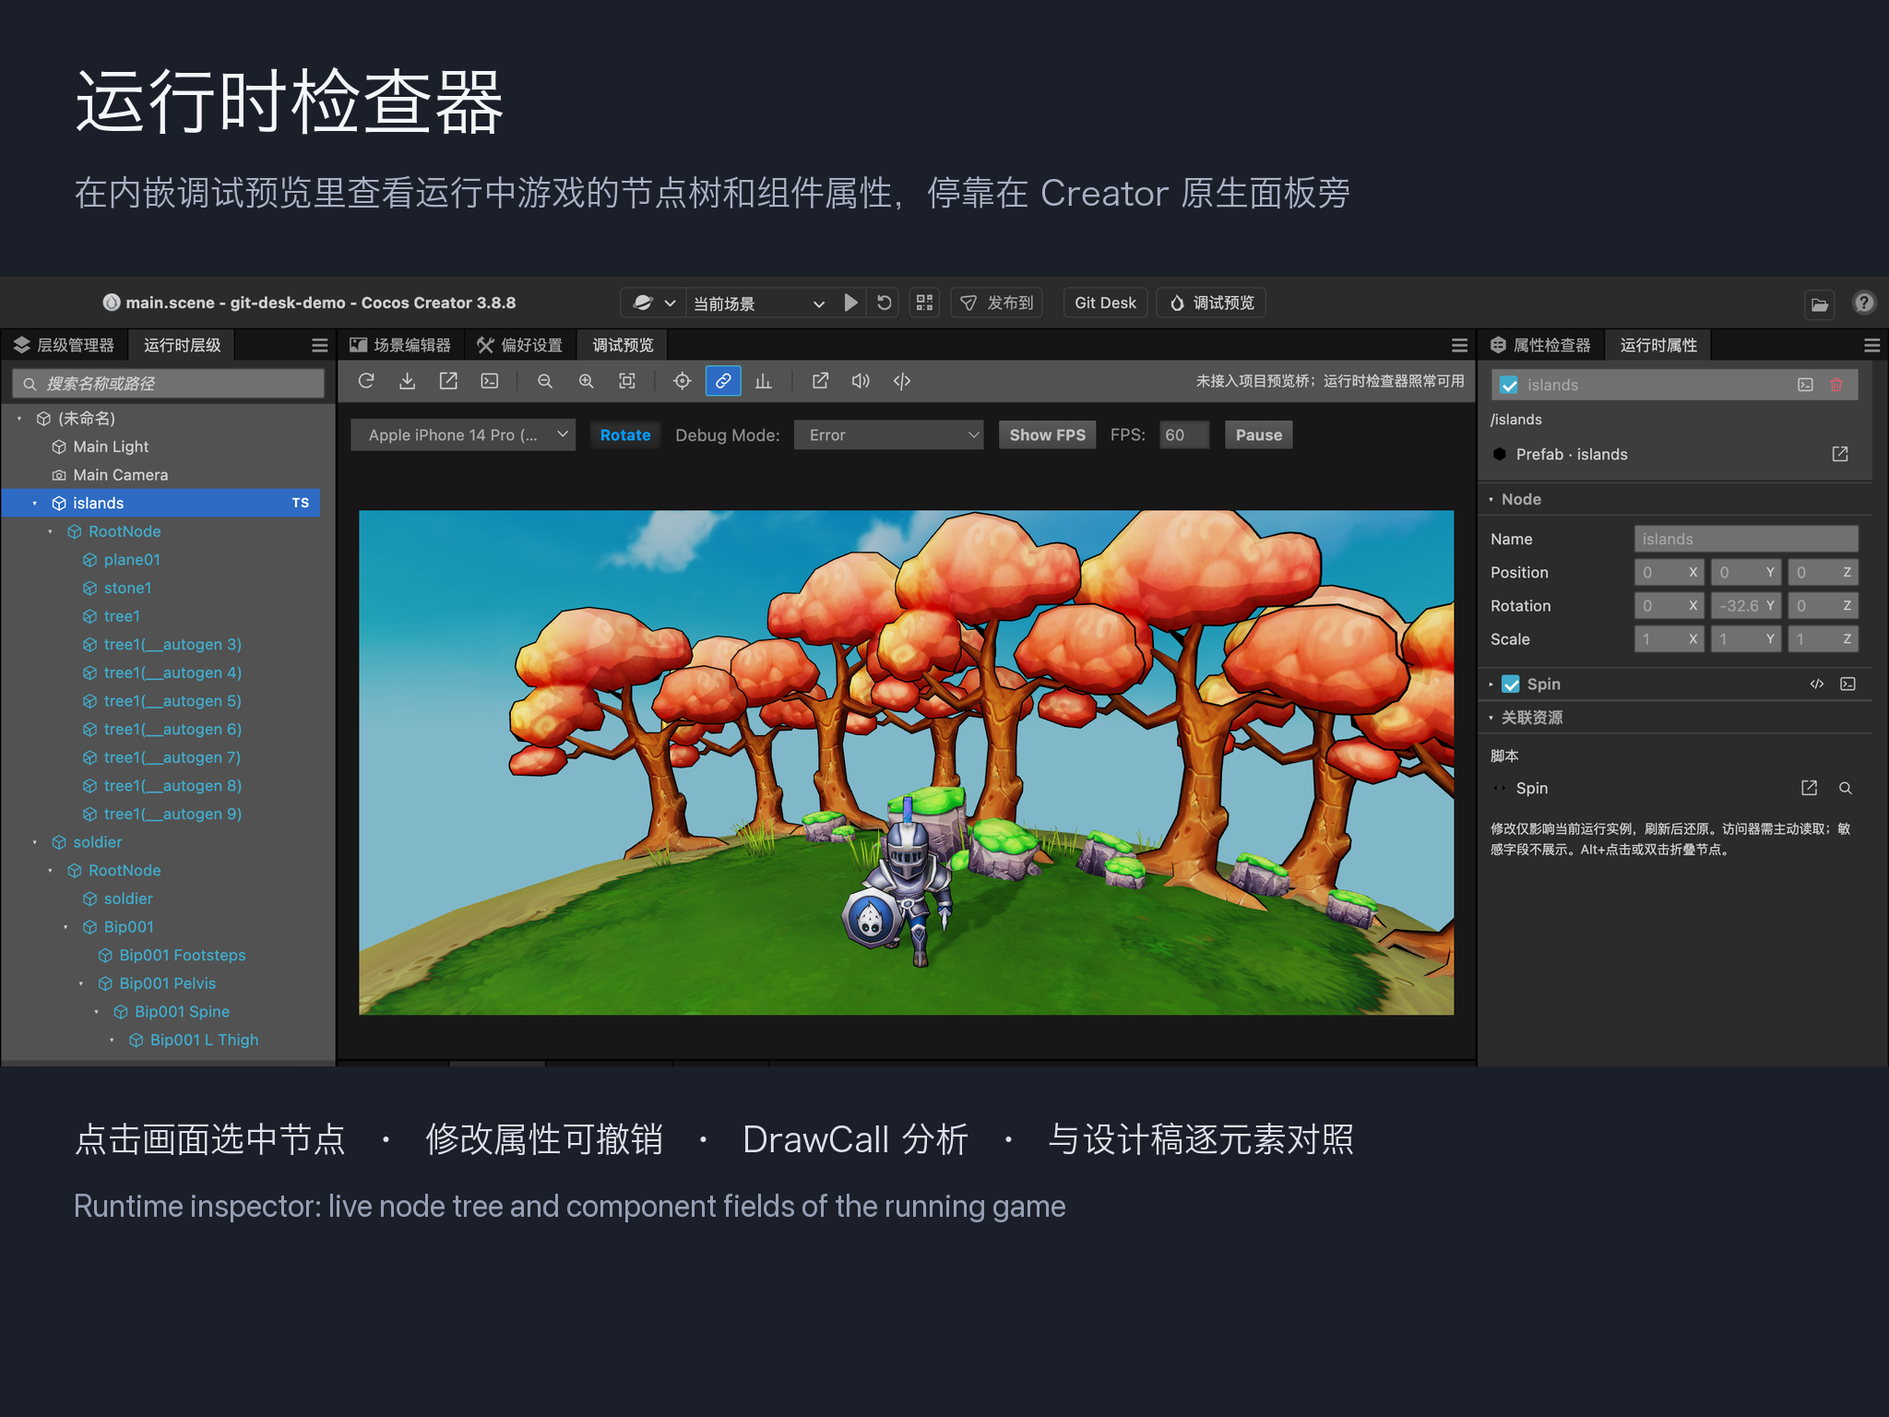
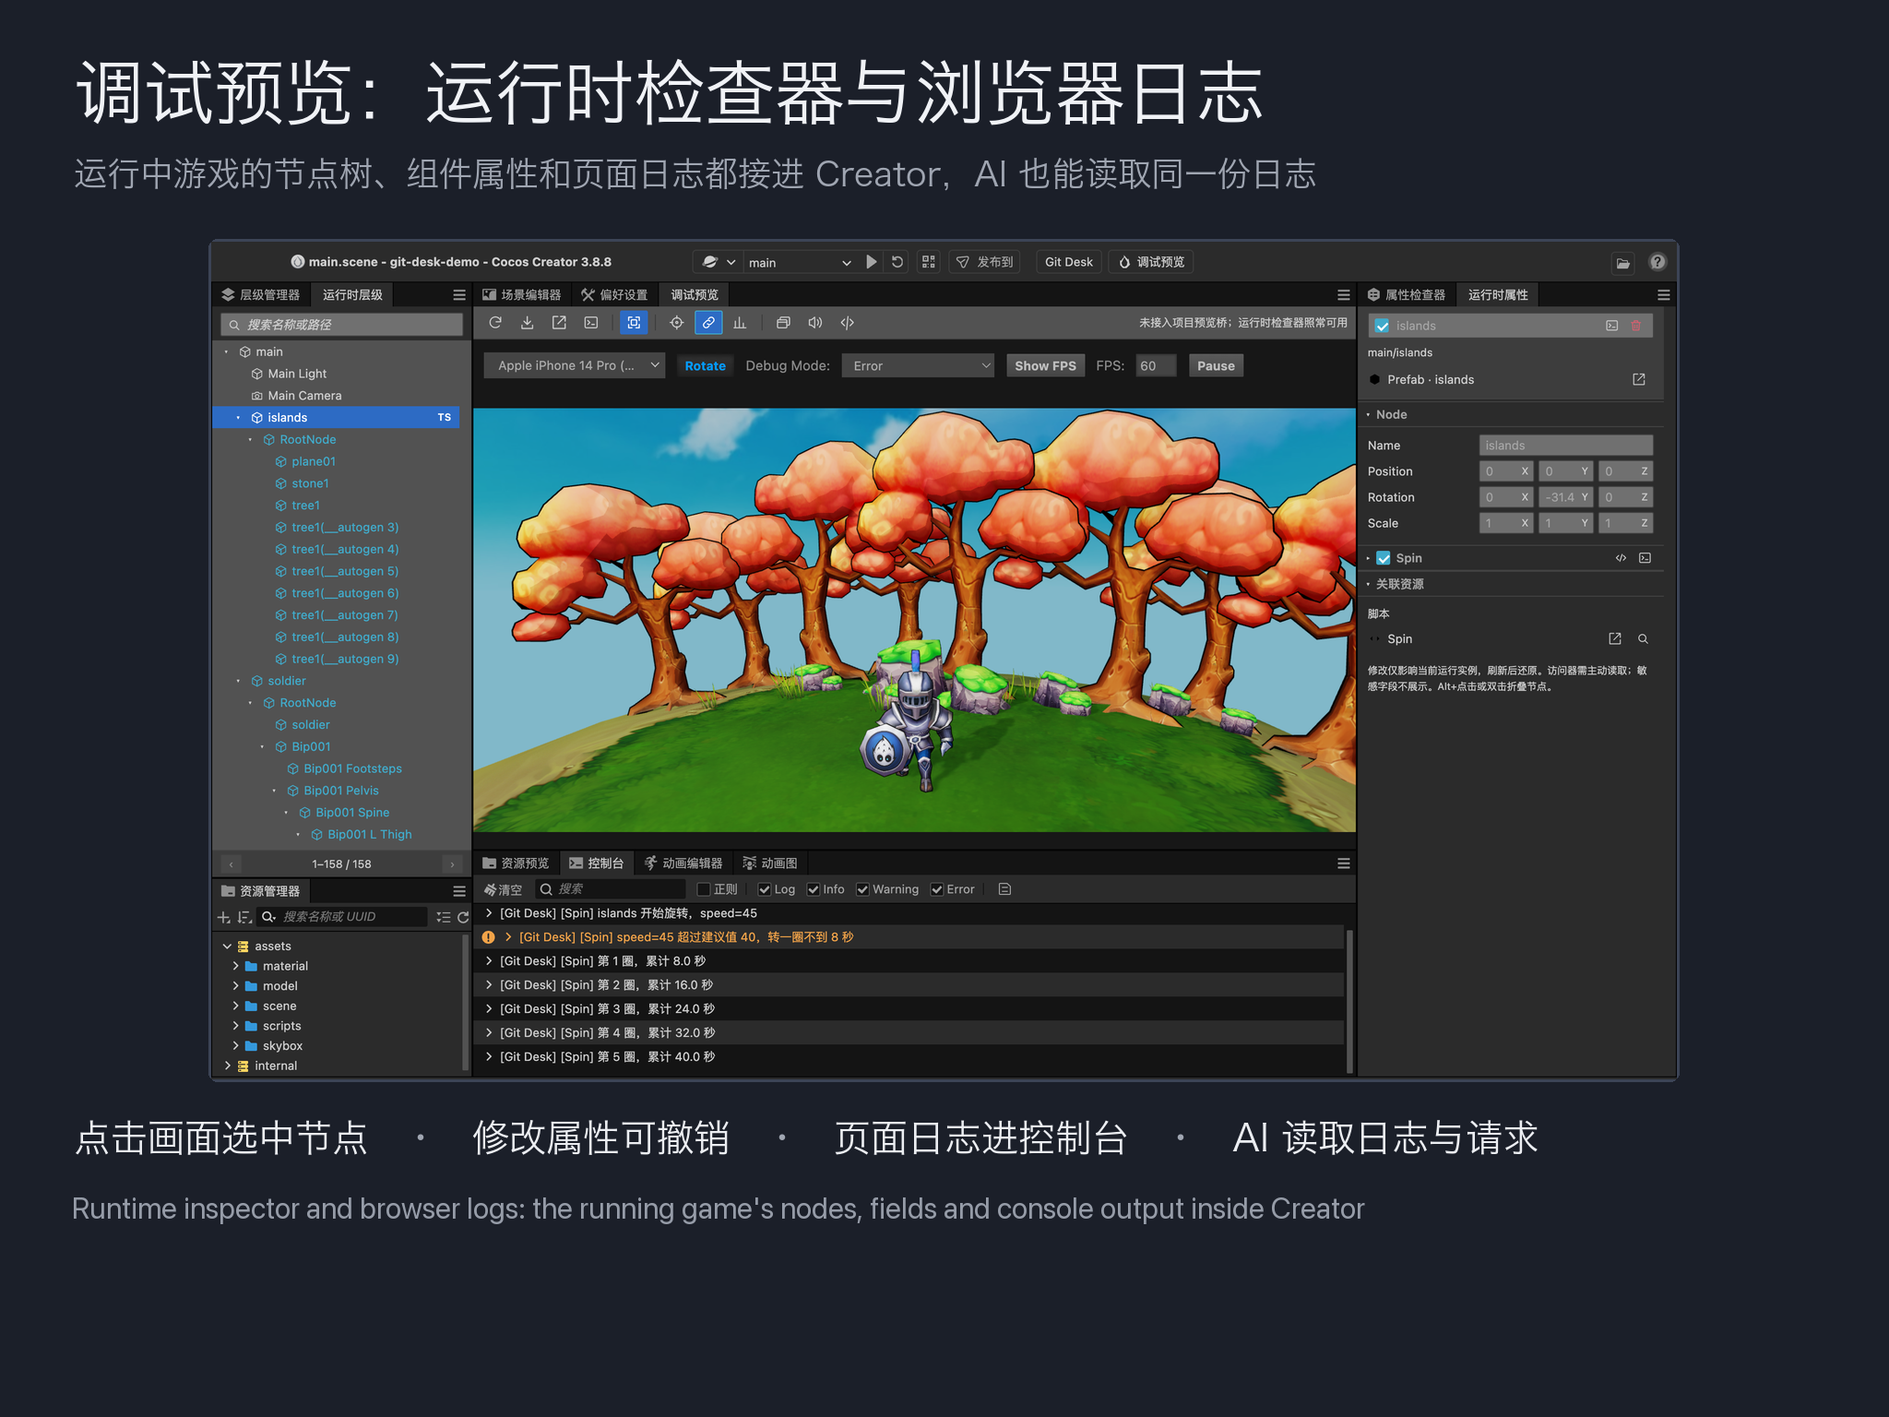
Release 0.2.3
- creator_prefab_diff compares components mounted on prefab instances
  (mountedComponents); instance roots are named after their asset and
  script components are labelled without the file extension
- Debug preview "fit to panel" uses the selected device size, so it no
  longer zooms in further on every page load
- The runtime panels are docked again after the debug preview reopens
  following an extension reload
- New store screenshot of an AI client editing a scene through MCP; the
  first screenshot now shows the game's console output

diff --git a/src/prefab-diff.ts b/src/prefab-diff.ts
@@ -10,7 +10,7 @@ export interface PropertyChange { node: string; component?: string; property: st
 export interface AssetUse { uuid: string; label?: string; before: number; after: number; }
 export interface PrefabDiff { left: { nodes: number; components: number }; right: { nodes: number; components: number }; nodes: NodeChange[]; components: ComponentChange[]; properties: PropertyChange[]; assets: AssetUse[]; truncated: boolean; summary: string; }
 
-interface NodeEntry { index: number; name: string; parent: string | null; stableId: string; components: { index: number; type: string; key: string }[]; }
+interface NodeEntry { index: number; name: string; parent: string | null; stableId: string; components: { index: number; type: string; key: string }[]; mounted: { index: number; type: string; key: string; node: string }[]; }
 interface Model { objects: SerializedObject[]; nodes: Map<string, NodeEntry>; pathOf: Map<number, string>; componentOf: Map<number, { node: string; key: string }>; uuids: Map<string, number>; types: Set<string>; }
 
 const NODE_TYPES = new Set(['cc.Node', 'cc.Scene']);
@@ -50,7 +50,7 @@ export function collectReferences(sides: SerializedObject[][]): { uuids: string[
     return { uuids: [...uuids].slice(0, UUID_LIMIT), types: [...types].slice(0, UUID_LIMIT) };
 }
 
-export function buildModel(objects: SerializedObject[]): Model {
+export function buildModel(objects: SerializedObject[], options: PrefabDiffOptions = {}): Model {
     const model: Model = { objects, nodes: new Map(), pathOf: new Map(), componentOf: new Map(), uuids: new Map(), types: new Set() };
     const stableId = (object: SerializedObject): string => {
         if (typeof object._id === 'string' && object._id) return 'id:' + object._id;
@@ -60,7 +60,10 @@ export function buildModel(objects: SerializedObject[]): Model {
     const visit = (index: number, parentPath: string | null, siblings: Map<string, number>) => {
         const object = objects[index];
         if (!object || model.pathOf.has(index)) return;
-        const base = String(object._name ?? ''), count = (siblings.get(base) ?? 0) + 1;
+        // A prefab instance root keeps its name in the prefab asset, not in this file: name it after the asset.
+        const prefabInfo = isRef(object._prefab) ? objects[object._prefab.__id__] : undefined;
+        const assetName = () => { const asset = prefabInfo?.asset; if (!isAssetRef(asset)) return ''; const label = options.labelAsset?.(asset.__uuid__); return label ? label.split('/').pop()!.replace(/\.prefab$/i, '') : ''; };
+        const base = typeof object._name === 'string' ? object._name : prefabInfo && isRef(prefabInfo.instance) ? assetName() : '', count = (siblings.get(base) ?? 0) + 1;
         siblings.set(base, count);
         const path = (parentPath === null ? '' : parentPath + '/') + (count > 1 ? base + '#' + count : base);
         model.pathOf.set(index, path);
@@ -72,7 +75,24 @@ export function buildModel(objects: SerializedObject[]): Model {
             const key = n > 1 ? type + '#' + n : type;
             components.push({ index: ref.__id__, type, key }); model.componentOf.set(ref.__id__, { node: path, key }); model.types.add(type);
         }
-        model.nodes.set(path, { index, name: base, parent: parentPath, stableId: stableId(object), components });
+        // Components added to a prefab instance in the scene live in its PrefabInstance.mountedComponents, not in
+        // _components. They are keyed by the target node inside the prefab: the instance root is this node, any other
+        // target is shown as <node>/[<localID>] because the prefab's own children are not in this file.
+        const mounted: NodeEntry['mounted'] = [], info = isRef(object._prefab) ? objects[object._prefab.__id__] : undefined;
+        const instance = info && isRef(info.instance) ? objects[info.instance.__id__] : undefined;
+        for (const mountRef of Array.isArray(instance?.mountedComponents) ? instance!.mountedComponents as unknown[] : []) {
+            const mount = isRef(mountRef) ? objects[mountRef.__id__] : undefined, targetInfo = mount && isRef(mount.targetInfo) ? objects[mount.targetInfo.__id__] : undefined;
+            const target = Array.isArray(targetInfo?.localID) ? (targetInfo!.localID as unknown[]).map(String).join('/') : '?';
+            const node = target === info!.fileId ? path : path + '/[' + target + ']', counts = new Map<string, number>();
+            for (const ref of Array.isArray(mount?.components) ? mount!.components as unknown[] : []) {
+                if (!isRef(ref) || !objects[ref.__id__]) continue;
+                const type = String(objects[ref.__id__]!.__type__ ?? '?'), n = (counts.get(type) ?? 0) + 1;
+                counts.set(type, n);
+                const key = n > 1 ? type + '#' + n : type;
+                mounted.push({ index: ref.__id__, type, key, node }); model.componentOf.set(ref.__id__, { node, key }); model.types.add(type);
+            }
+        }
+        model.nodes.set(path, { index, name: base, parent: parentPath, stableId: stableId(object), components, mounted });
         const childSiblings = new Map<string, number>();
         for (const ref of Array.isArray(object._children) ? object._children : []) if (isRef(ref)) visit(ref.__id__, path, childSiblings);
     };
@@ -131,7 +151,7 @@ const clip = (value: unknown): unknown => { const text = JSON.stringify(value) ?
 const same = (a: unknown, b: unknown) => JSON.stringify(a) === JSON.stringify(b);
 
 export function diffSerialized(leftObjects: SerializedObject[], rightObjects: SerializedObject[], options: PrefabDiffOptions = {}): PrefabDiff {
-    const left = buildModel(leftObjects), right = buildModel(rightObjects), limit = Math.max(1, options.limit ?? 200);
+    const left = buildModel(leftObjects, options), right = buildModel(rightObjects, options), limit = Math.max(1, options.limit ?? 200);
     const label = (type: string) => options.labelType?.(type) ?? type;
     const nodes: NodeChange[] = [], components: ComponentChange[] = [], properties: PropertyChange[] = [];
     let truncated = false;
@@ -149,8 +169,8 @@ export function diffSerialized(leftObjects: SerializedObject[], rightObjects: Se
         const fromEntry = left.nodes.get(from)!;
         nodes.push({ kind: fromEntry.parent === entry.parent || (fromEntry.parent !== null && entry.parent !== null && pairs.get(entry.parent) === fromEntry.parent) ? 'renamed' : 'moved', path, from });
     }
-    for (const path of right.nodes.keys()) if (!pairs.has(path)) { nodes.push({ kind: 'added', path }); for (const component of right.nodes.get(path)!.components) components.push({ kind: 'added', node: path, type: label(component.type) }); }
-    for (const path of left.nodes.keys()) if (!usedLeft.has(path)) { nodes.push({ kind: 'removed', path }); for (const component of left.nodes.get(path)!.components) components.push({ kind: 'removed', node: path, type: label(component.type) }); }
+    for (const path of right.nodes.keys()) if (!pairs.has(path)) { nodes.push({ kind: 'added', path }); const entry = right.nodes.get(path)!; for (const component of [...entry.components.map(item => ({ ...item, node: path })), ...entry.mounted]) components.push({ kind: 'added', node: component.node, type: label(component.type) }); }
+    for (const path of left.nodes.keys()) if (!usedLeft.has(path)) { nodes.push({ kind: 'removed', path }); const entry = left.nodes.get(path)!; for (const component of [...entry.components.map(item => ({ ...item, node: path })), ...entry.mounted]) components.push({ kind: 'removed', node: component.node, type: label(component.type) }); }
     for (const [rightPath, leftPath] of pairs) {
         const a = left.objects[left.nodes.get(leftPath)!.index]!, b = right.objects[right.nodes.get(rightPath)!.index]!;
         for (const key of new Set([...Object.keys(a), ...Object.keys(b)])) {
@@ -163,15 +183,26 @@ export function diffSerialized(leftObjects: SerializedObject[], rightObjects: Se
         const leftComponents = new Map(left.nodes.get(leftPath)!.components.map(item => [item.key, item])), rightComponents = new Map(right.nodes.get(rightPath)!.components.map(item => [item.key, item]));
         for (const [key, component] of rightComponents) if (!leftComponents.has(key)) components.push({ kind: 'added', node: rightPath, type: label(component.type) });
         for (const [key, component] of leftComponents) if (!rightComponents.has(key)) components.push({ kind: 'removed', node: rightPath, type: label(component.type) });
-        for (const [key, component] of rightComponents) {
-            const other = leftComponents.get(key); if (!other) continue;
-            const c = left.objects[other.index]!, d = right.objects[component.index]!;
+        const compare = (c: SerializedObject, d: SerializedObject, node: string, key: string) => {
             for (const field of new Set([...Object.keys(c), ...Object.keys(d)])) {
                 if (SKIP_COMPONENT.has(field)) continue;
                 const before = normalize(left, c[field], options), after = normalize(right, d[field], options);
-                if (!same(before, after)) push({ node: rightPath, component: label(component.key), property: field, before: clip(before), after: clip(after) });
+                if (!same(before, after)) push({ node, component: label(key), property: field, before: clip(before), after: clip(after) });
             }
+        };
+        for (const [key, component] of rightComponents) {
+            const other = leftComponents.get(key); if (!other) continue;
+            compare(left.objects[other.index]!, right.objects[component.index]!, rightPath, component.key);
         }
+        // Mounted components pair by target node and type; the target is relative to the instance, so it survives a rename.
+        const mountKey = (path: string, item: NodeEntry['mounted'][number]) => (item.node === path ? '' : item.node.slice(path.length)) + '|' + item.key;
+        const leftMounted = new Map(left.nodes.get(leftPath)!.mounted.map(item => [mountKey(leftPath, item), item])), rightMounted = new Map(right.nodes.get(rightPath)!.mounted.map(item => [mountKey(rightPath, item), item]));
+        for (const [key, item] of rightMounted) {
+            const other = leftMounted.get(key);
+            if (!other) components.push({ kind: 'added', node: item.node, type: label(item.type) });
+            else compare(left.objects[other.index]!, right.objects[item.index]!, item.node, item.key);
+        }
+        for (const [key, item] of leftMounted) if (!rightMounted.has(key)) components.push({ kind: 'removed', node: rightPath + item.node.slice(leftPath.length), type: label(item.type) });
     }
     const assets: AssetUse[] = [];
     for (const uuid of new Set([...left.uuids.keys(), ...right.uuids.keys()])) {

diff --git a/src/creator-tools.ts b/src/creator-tools.ts
@@ -370,7 +370,7 @@ export class CreatorTools {
         const assetLabels = new Map<string, string>(), typeLabels = new Map<string, string>();
         const lookup = async (uuid: string) => { try { return await this.host.request<AssetInfo | null>('asset-db', 'query-asset-info', uuid, ['url', 'name']); } catch { return null; } };
         for (const uuid of references.uuids.slice(0, 80)) { const info = await lookup(uuid); if (info?.url) assetLabels.set(uuid, info.url.replace(/^db:\/\/assets\//, '')); }
-        for (const type of references.types.slice(0, 80)) { const uuid = decompressUuid(type); const info = uuid ? await lookup(uuid) : null; if (info?.name) typeLabels.set(type, info.name); }
+        for (const type of references.types.slice(0, 80)) { const uuid = decompressUuid(type); const info = uuid ? await lookup(uuid) : null; if (info?.name) typeLabels.set(type, info.name.replace(/\.(ts|js)$/i, '')); }
         const diff = diffSerialized(leftObjects, rightObjects, { limit, labelAsset: uuid => assetLabels.get(uuid), labelType: type => typeLabels.get(type) });
         return { path: name, leftRevision: left, rightRevision: right, leftMissing: before === null, rightMissing: after === null, ...diff,
             note: t('creator.tools.prefabDiffNote') };

diff --git a/src/main.ts b/src/main.ts
@@ -365,7 +365,12 @@ function reopenFromMarker(retry: boolean): void {
     const age = Date.now() - closedAt;
     if (age >= 0 && age < 120000) reopenTimer = setTimeout(() => {
         reopenTimer = undefined;
-        void methods.browserDebugOpen().then(result => { if (!result.ok) notice('warn', t('main.previewReopenFailed', { error: result.error })); });
+        void methods.browserDebugOpen().then(result => {
+            if (!result.ok) { notice('warn', t('main.previewReopenFailed', { error: result.error })); return; }
+            // The closed tab's own clean-up asks to restore Creator's panels and can arrive after the new tab docked the
+            // runtime panels, closing them again; dock once more after it has settled.
+            reopenTimer = setTimeout(() => { reopenTimer = undefined; void methods.runtimeInspectorDock(); }, 1500);
+        });
     }, 500);
     else if (retry) reopenTimer = setTimeout(() => { reopenTimer = undefined; reopenFromMarker(false); }, 2000);
 }

diff --git a/CHANGELOG.md b/CHANGELOG.md
@@ -4,6 +4,18 @@ All notable changes to this project are documented here. The format follows [Kee
 
 ## [Unreleased]
 
+## [0.2.3] — 2026-10-29
+
+### Fixed
+- `creator_prefab_diff` missed components added to a prefab instance in a scene. Creator stores them in the instance's `mountedComponents`, not in the node's `_components`, so a changed field of such a component, for example a script on a prefab instance root, was reported as "0 property changes". Mounted components are now compared, added and removed like ordinary components; a component mounted on a node inside the prefab is shown as `<instance>/[<localID>]`. Found while running the extension in a fresh Creator 3.8.8 project.
+- A prefab instance root, whose name lives in the prefab asset rather than in the scene file, is named after its asset (`main/islands` instead of `main/`).
+- Script components are labelled by their class name without the `.ts` / `.js` extension.
+- "Fit to panel" in the Debug Preview zoomed in further on every page load and could end at 3×, cropping the game. Creator's preview sizes `#GameDiv` from the viewport at load time, and the viewport shrinks as the panel zooms in; since 0.2.2 fit is on by default and the factor is saved, so the zoom ratcheted up. Fit now uses the selected device's own size from the preview's device picker (swapped when rotated); full-screen modes keep 100%, and a preview template without the picker still falls back to `#GameDiv`.
+- After an extension reload, the reopened Debug Preview came back without the Runtime Hierarchy and Runtime Properties tabs: the closed tab's clean-up asked to restore Creator's panels and arrived after the new tab had docked them. The runtime panels are docked again once that has settled.
+
+### Added
+- Third store screenshot, an AI client editing a scene through MCP, in `store/` and both READMEs. The first screenshot now also shows the game's console output in Creator's console.
+
 ## [0.2.2] — 2026-10-29
 
 ### Added
@@ -144,7 +156,8 @@ Last version developed inside the private project; summarised from the Chinese c
 ### Added
 - First standalone package: recursive repository discovery, working tree and index diffs with image comparison, LFS object reads, file staging with related `.meta` expansion, commit/push/fetch, fast-forward update, branch creation and switching, submodule sync, previewed writes with two-minute expiry, Agent IPC protocol v1 (`details(repo, {kind: 'agent', protocol: 1, ...})`).
 
-[Unreleased]: https://github.com/jiaqihuu/cocos-git-desk/compare/v0.2.2...HEAD
+[Unreleased]: https://github.com/jiaqihuu/cocos-git-desk/compare/v0.2.3...HEAD
+[0.2.3]: https://github.com/jiaqihuu/cocos-git-desk/compare/v0.2.2...v0.2.3
 [0.2.2]: https://github.com/jiaqihuu/cocos-git-desk/compare/v0.2.1...v0.2.2
 [0.2.1]: https://github.com/jiaqihuu/cocos-git-desk/compare/v0.2.0...v0.2.1
 [0.2.0]: https://github.com/jiaqihuu/cocos-git-desk/releases/tag/v0.2.0

diff --git a/README.md b/README.md
@@ -6,7 +6,9 @@ A Cocos Creator 3.8 extension that puts Git for the project and its submodules i
 
 ![Git Desk panel: working tree changes and a line-staging diff of main.scene](store/screenshot-2-git-desk.png)
 
-![Runtime inspector: live node tree and component fields of the running game, docked next to Creator's panels](store/screenshot-1-runtime-inspector.png)
+![AI client editing a scene through MCP: scoped task, property change, save, semantic scene diff, while Git Desk shows the change](store/screenshot-3-ai-mcp.png)
+
+![Debug preview: runtime hierarchy and properties of the running game docked next to Creator's panels, with the page's console output in Creator's console](store/screenshot-1-runtime-inspector.png)
 
 ## How it differs from funplay-cocos-mcp
 

diff --git a/store/LISTING.md b/store/LISTING.md
@@ -8,7 +8,7 @@ Fields of the Cocos developer center form (Store → New resource). The resource
 | Category | Creator Extension → Plugins |
 | Supported Creator versions | 3.8.x (tested on 3.8.8) |
 | Price | 0 (free, MIT) |
-| Package | `releases/cocos-git-desk-0.2.2.zip` built by `npm run package`, under 100 MB |
+| Package | `releases/cocos-git-desk-0.2.3.zip` built by `npm run package`, under 100 MB |
 | Source | https://github.com/jiaqihuu/cocos-git-desk |
 | Keywords | git, mcp, ai, claude code, codex, prefab diff, meta check, runtime inspector, submodule, lfs |
 
